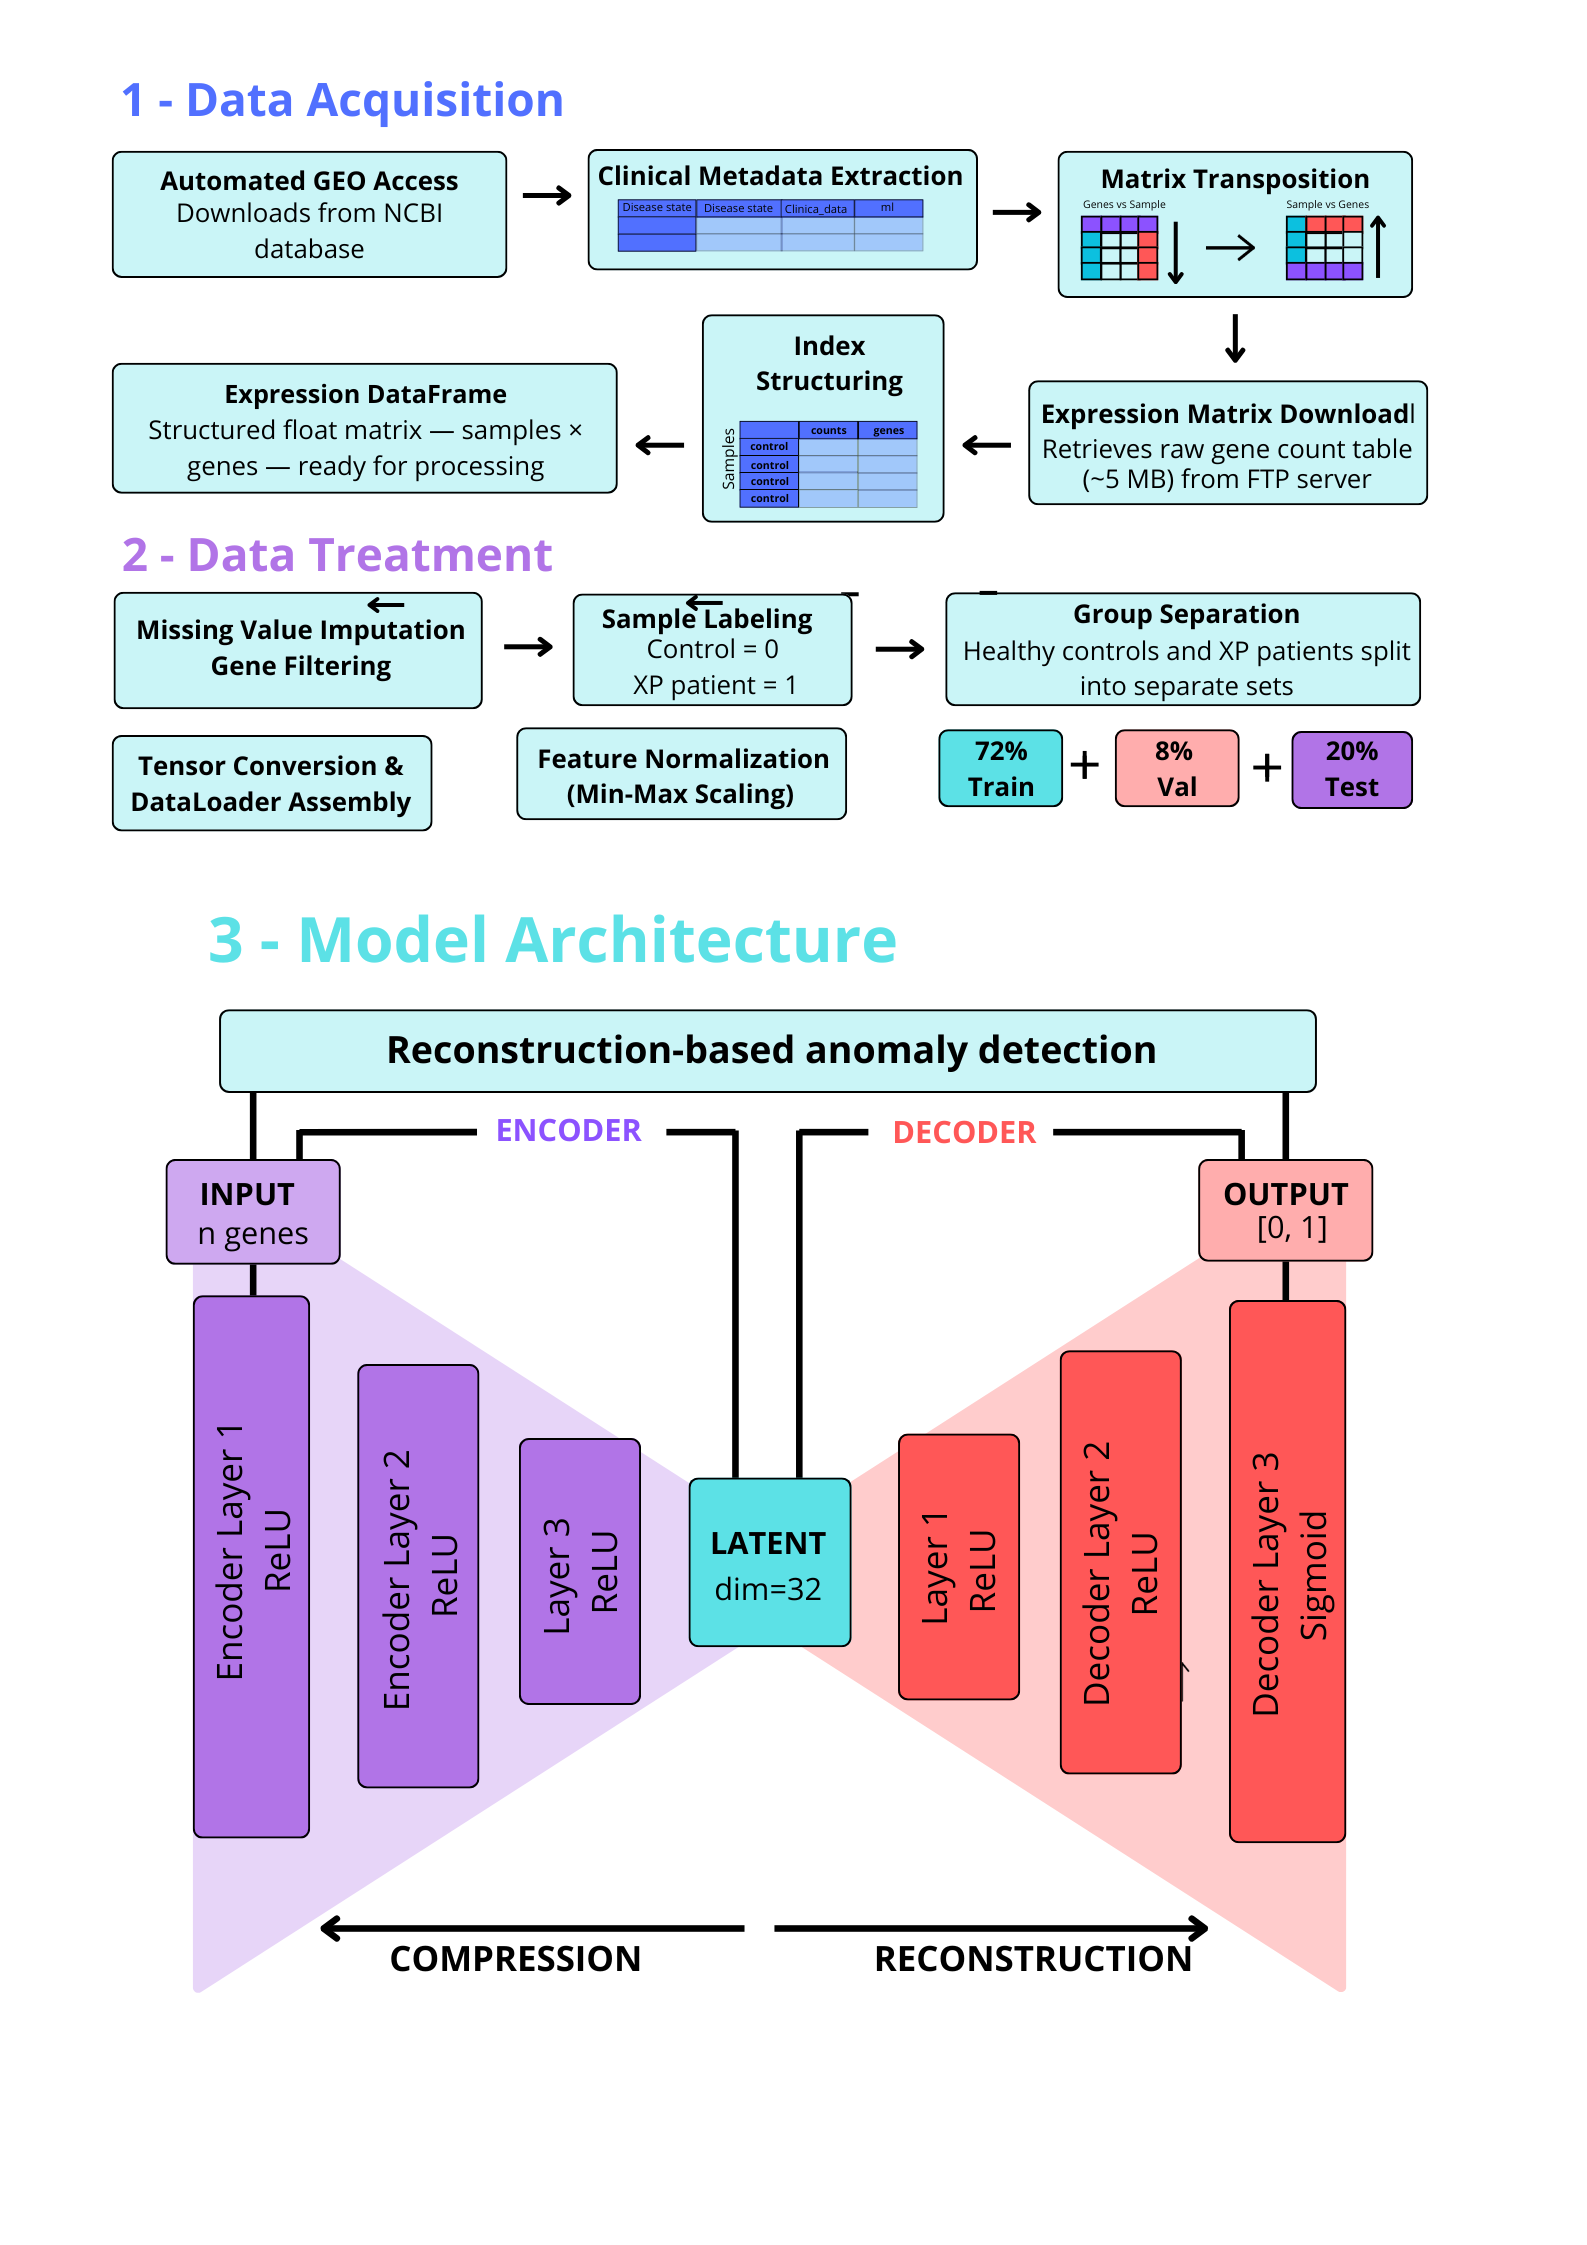
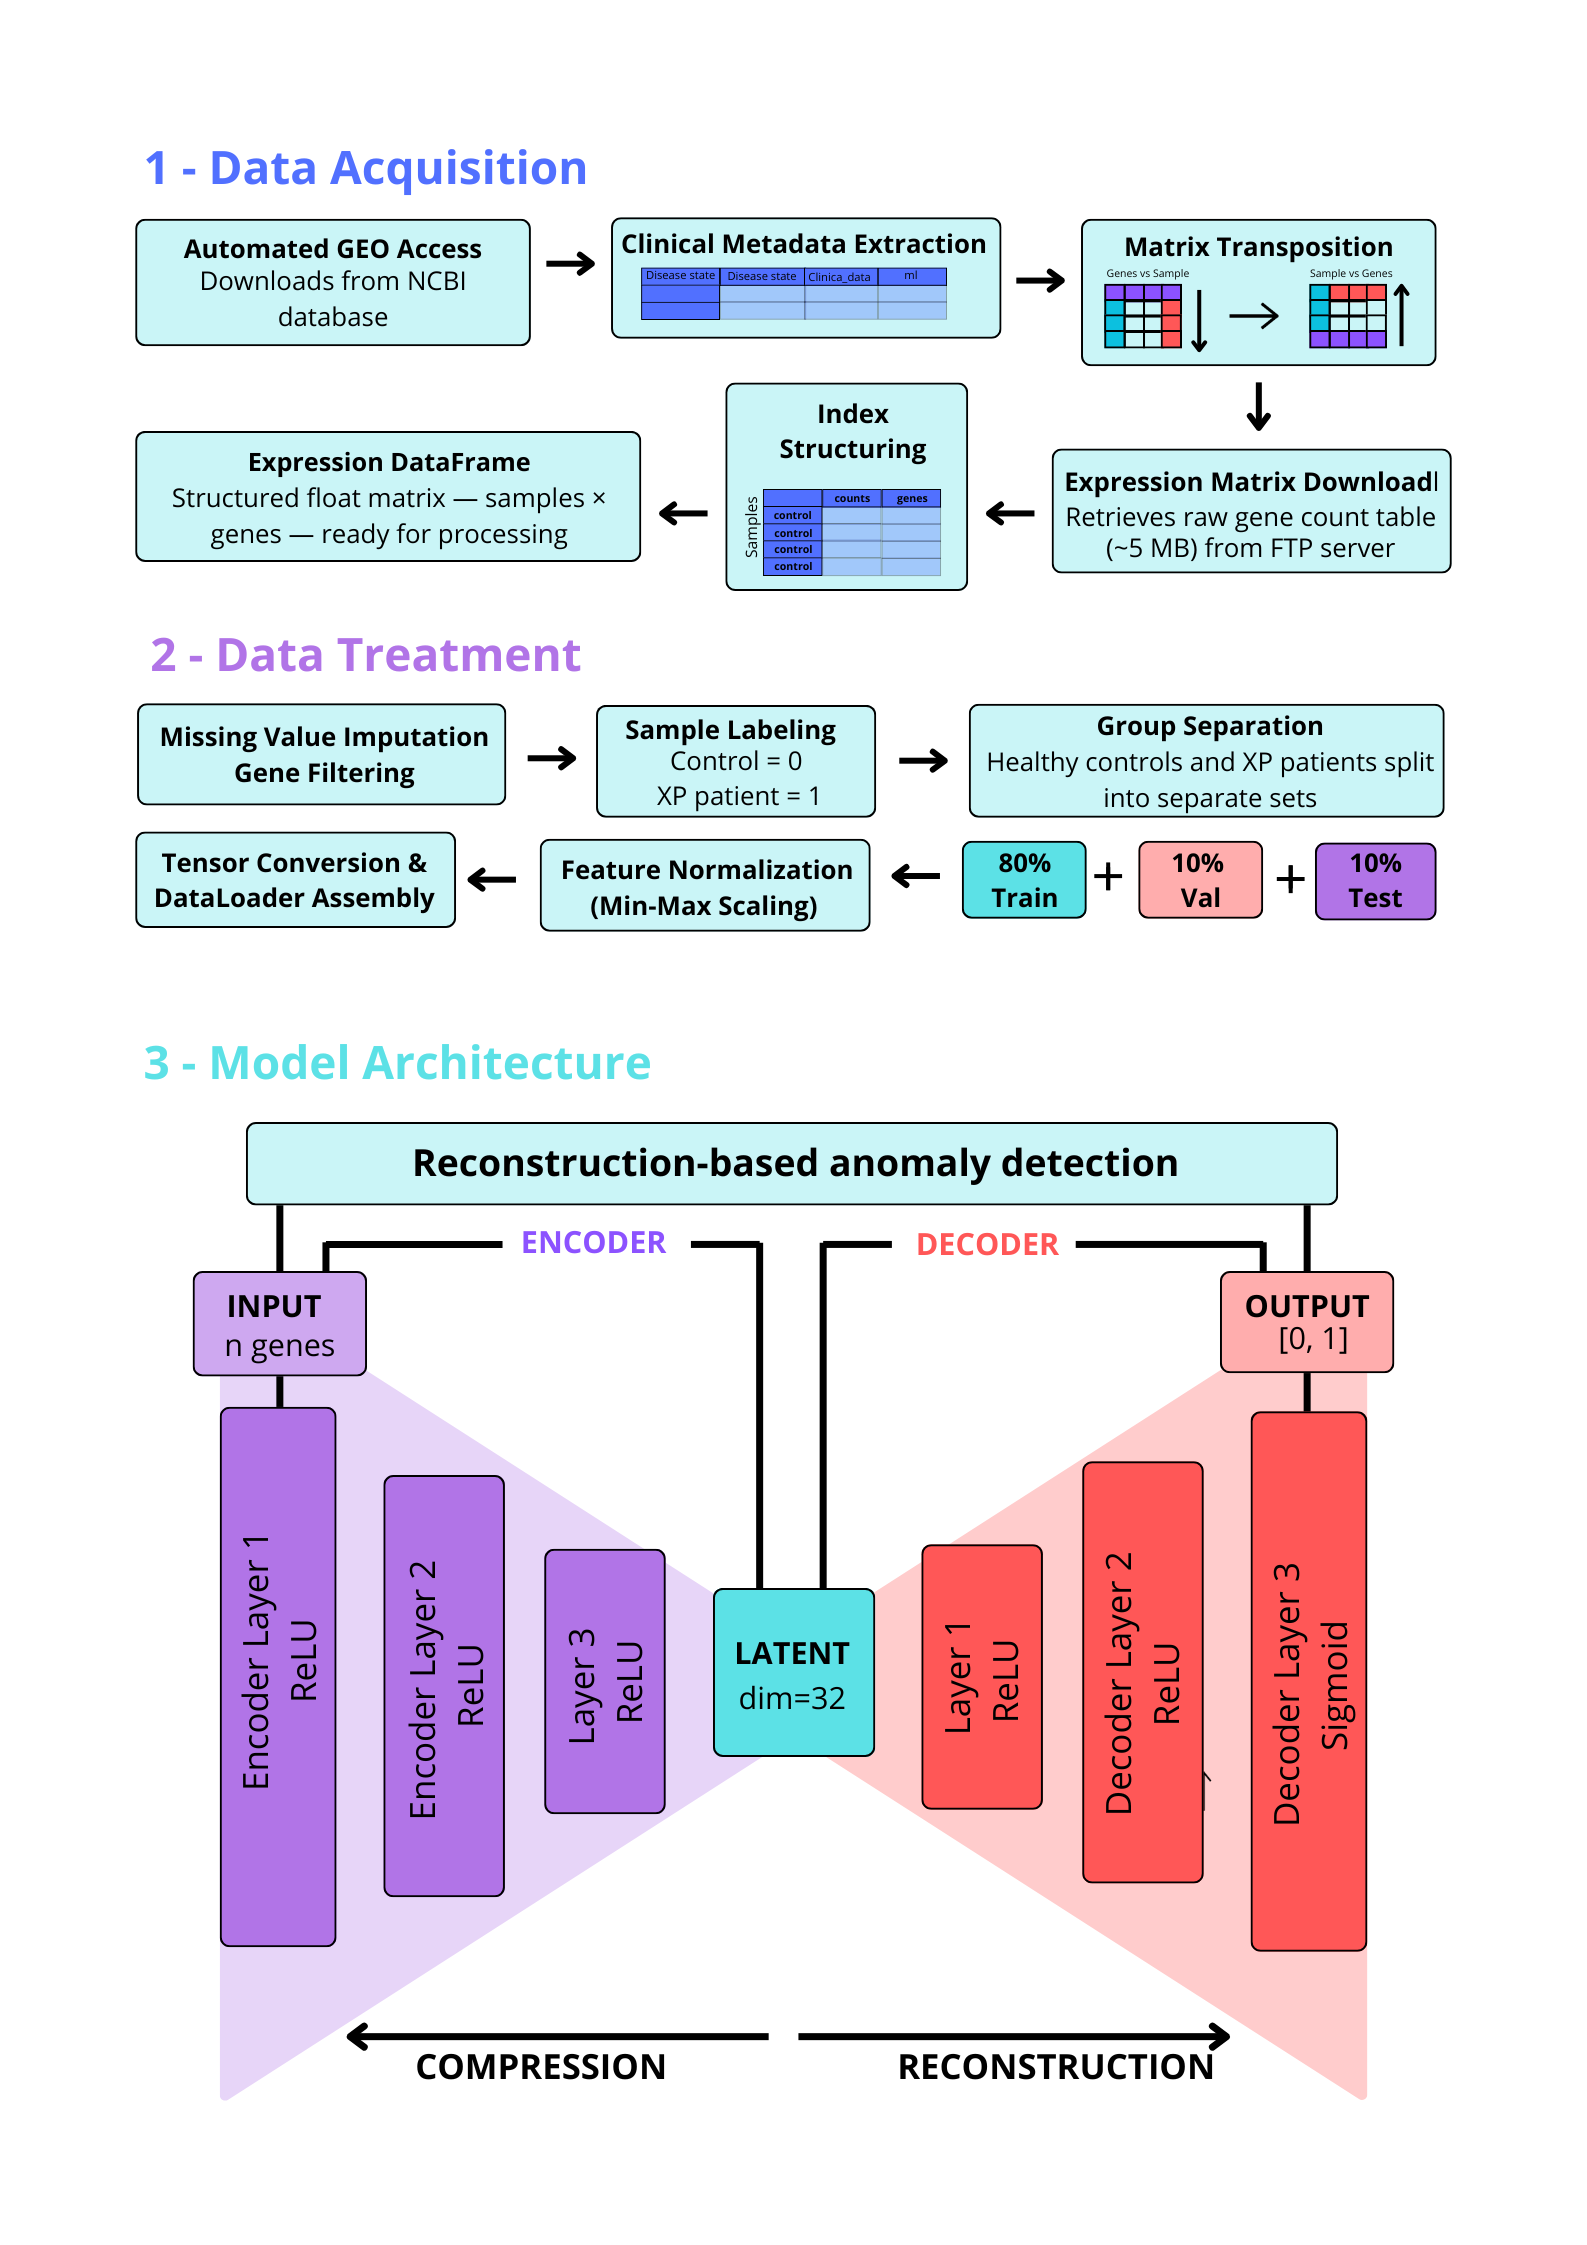
Atualização do layout e autores

diff --git a/Transcriptomic Signature of Xeroderma Pi index.html b/Transcriptomic Signature of Xeroderma Pi index.html
@@ -33,8 +33,10 @@
         header {
             background: linear-gradient(135deg, var(--primary), var(--secondary));
             color: white;
-            padding: 60px 20px;
+            padding: 20px 20px;
             text-align: center;
+
+            overflow: hidden;
         }
        
         header h1 {
@@ -48,10 +50,10 @@
         header::before {
             content: "";
             display: block;
-            width: 900px; /* Ajuste a largura da imagem aqui */
-            height: 900px; /* Ajuste a altura da imagem aqui */
-            margin: 0 auto 20px auto; /* Centraliza a imagem e empurra o título para baixo */
-            
+            width: 700px; /* Ajuste a largura da imagem aqui */
+            height: 700px; /* Ajuste a altura da imagem aqui */
+            margin: 0 auto -210px auto; /* Centraliza a imagem e empurra o título para baixo */
+            transform: translateY(-120px);
             /* CAMINHO DA IMAGEM: substitua pelo nome correto do seu arquivo */
             background-image: url('Poster imagem 1.png'); 
             
@@ -101,25 +103,32 @@
             text-align: center;
         }
 
+        .figure-container figure {
+            margin: 0 auto 28px;
+            max-width: 920px;
+        }
+
         .figure-container img {
             width: 100%;
             max-width: 900px;
             height: auto;
             border-radius: 10px;
             border: 1px solid var(--border);
-            margin-bottom: 12px;
+            margin-bottom: 10px;
         }
 
+        .figure-container figcaption,
         .caption {
             color: var(--gray);
             font-style: italic;
             font-size: 0.95rem;
+            margin-top: 0;
         }
 
         .citation-box {
             background: #f8fafc;
             border-left: 4px solid var(--secondary);
-            padding: 15px;
+            padding: 20px;
             margin-top: 10px;
         }
 
@@ -131,6 +140,46 @@
             margin-bottom: 10px;
         }
 
+        .authors-container {
+            display: flex;
+            gap: 18px;
+            flex-wrap: wrap;
+            justify-content: space-between;
+            margin-top: 20px;
+        }
+
+        .author-card {
+            flex: 1 1 calc(33.333% - 12px);
+            min-width: 240px;
+            background: #fcfdff;
+            border: 1px solid #e1e7ee;
+            border-radius: 14px;
+            padding: 20px;
+            text-align: center;
+            box-shadow: 0 2px 8px rgba(0,0,0,0.05);
+        }
+
+        .author-card img {
+            width: 100%;
+            max-width: 180px;
+            height: auto;
+            border-radius: 50%;
+            display: block;
+            margin: 0 auto 16px;
+            object-fit: cover;
+        }
+
+        .author-card h3 {
+            margin-bottom: 10px;
+            font-size: 1.05rem;
+            color: var(--text);
+        }
+
+        .author-card p {
+            margin: 0;
+            text-align: center;
+        }
+
         a {
             color: var(--secondary);
             text-decoration: none;
@@ -138,6 +187,11 @@
 
         a:hover {
             text-decoration: underline;
+        }
+
+        a:focus-visible {
+            outline: 2px dashed var(--secondary);
+            outline-offset: 3px;
         }
 
         footer {
@@ -151,6 +205,25 @@
         footer a {
             color: #ffffff;
             font-weight: 600;
+        }
+
+        .citation-box {
+            background: #f8fafc;
+            border-left: 4px solid var(--secondary);
+            padding: 20px;
+            margin-top: 10px;
+        }
+
+        .citation-box p {
+            margin-bottom: 18px;
+            text-align: justify;
+            line-height: 1.8;
+        }
+
+        .citation-box hr {
+            margin: 30px 0;
+            border: none;
+            border-top: 1px solid #d9dee5;
         }
 
         @media (max-width: 768px) {
@@ -177,7 +250,7 @@
 <main>
 
     <section>
-        <h2>Extended Abstract</h2>
+        <h2>EXTENDED ABSTRACT</h2>
 
         <h3>INTRODUCTION</h3>
         <p>
@@ -214,58 +287,149 @@
     </section>
 
     <section>
-        <h2>Figures</h2>
+        <h2>FIGURES</h2>
 
         <div class="figure-container">
-            <img src="3.png" alt="Autoencoder architecture">
-            <p class="caption">
-            </p>
+            <figure>
+                <img src="3.png" alt="Autoencoder architecture">
+                <figcaption>Source: Author, 2026.</figcaption>
+            </figure>
         </div>
         <div class="figure-container">
-            <img src="4.png" alt="Autoencoder architecture">
-            <p class="caption">
-            </p>
+            <figure>
+                <img src="4.png" alt="Autoencoder architecture">
+                <figcaption>Source: Author, 2026.</figcaption>
+            </figure>
         </div>
     </section>
 
     <section>
-        <h2>Suggested Citation</h2>
+    <h2>REFERENCES</h2>
 
-        <div class="citation-box">
-            <p><strong>ABNT:</strong> [A PREENCHER – citação ABNT]</p>
-            <p><strong>Vancouver:</strong> [A PREENCHER – citação Vancouver]</p>
-        </div>
-    </section>
+    <div class="citation-box">
+
+        <p><strong>ABNT:</strong></p>
+
+        <p>
+            CARDOSO, José Fernandes da Silva; MARTINS, Mariana Paiva Braga; FARIA, Ivan Aurélio Fortuna Kalil de; LOBO, Daniel Mendes Lira; FERREIRA, Tainan Gomes et al.
+            <em>Inteligência artificial no diagnóstico precoce de doenças crônicas: desafios e perspectivas.</em>
+            Revista Ibero-Americana de Humanidades, Ciências e Educação, v. 10, n. 12, p. 2451–2461, 2024.
+            DOI: 10.51891/rease.v10i12.17626.
+        </p>
+
+        <p>
+            OLIVEIRA, Ana Helena Sales.
+            <em>Os genes do xeroderma pigmentoso e a sensibilidade ao sol.</em>
+            Genética na Escola, v. 16, n. 1, p. 28–37, 2021.
+            DOI: 10.55838/1980-3540.ge.2021.366.
+        </p>
+
+        <p>
+            PASSOS, Matheus Jacobina Brito; BRITO, Vanessa Araújo Jacobina; ALMEIDA NETO, Alcides Duarte de.
+            <em>Xeroderma pigmentoso: uma patologia rara.</em>
+            Brazilian Journal of Implantology and Health Sciences, v. 6, n. 9, p. 2349–2353, 2024.
+            DOI: 10.36557/2674-8169.2024v6n9p2349-2353.
+        </p>
+
+        <p>
+            TAMA SÁNCHEZ, Francisco A.; VASQUEZ FALCONÍ, Joselyn A.; AGUILAR MEJÍA, Rommel M.; RODRÍGUEZ PÉREZ, Juan Carlos A.; LÓPEZ SOLÓRZANO, Anthony A.; PAREDES JERÉZ, Kevin D.
+            <em>Xeroderma pigmentoso: reporte de caso y revisión de la literatura.</em>
+            Revista Científica de Salud y Desarrollo Humano, v. 5, n. 2, p. 44–55, 2024.
+            DOI: 10.61368/r.s.d.h.v5i2.117.
+        </p>
+
+        <p>
+            ZGHAL, M.; MESSAOUD, O.; MOKNI, M.
+            <em>Xeroderma pigmentoso.</em>
+            EMC - Dermatología, v. 55, n. 2, p. 1–21, 2021.
+            DOI: 10.1016/S1761-2896(21)45140-X.
+        </p>
+
+        <hr>
+
+        <p><strong>Vancouver:</strong></p>
+
+        <p>
+            1. Cardoso JFS, Martins MPB, Faria IAFK, Lobo DML, Ferreira TG, et al.
+            Inteligência artificial no diagnóstico precoce de doenças crônicas: desafios e perspectivas.
+            Rev Ibero-Am Humanid Cienc Educ. 2024;10(12):2451–2461.
+            doi:10.51891/rease.v10i12.17626.
+        </p>
+
+        <p>
+            2. Oliveira AHS.
+            Os genes do xeroderma pigmentoso e a sensibilidade ao sol.
+            Genet Esc. 2021;16(1):28–37.
+            doi:10.55838/1980-3540.ge.2021.366.
+        </p>
+
+        <p>
+            3. Passos MJB, Brito VAJ, Almeida Neto AD.
+            Xeroderma pigmentoso: uma patologia rara.
+            Braz J Implantol Health Sci. 2024;6(9):2349–2353.
+            doi:10.36557/2674-8169.2024v6n9p2349-2353.
+        </p>
+
+        <p>
+            4. Tama Sánchez FA, Vasquez Falconí JA, Aguilar Mejía RM, Rodríguez Pérez JCA, López Solórzano AA, Paredes Jeréz KD.
+            Xeroderma pigmentoso: reporte de caso y revisión de la literatura.
+            Rev Cient Salud Desarro Humano. 2024;5(2):44–55.
+            doi:10.61368/r.s.d.h.v5i2.117.
+        </p>
+
+        <p>
+            5. Zghal M, Messaoud O, Mokni M.
+            Xeroderma pigmentoso.
+            EMC Dermatol. 2021;55(2):1–21.
+            doi:10.1016/S1761-2896(21)45140-X.
+        </p>
+
+    </div>
+</section>
 
     <section>
-        <h2>Authors and Contacts</h2>
+        <h2>AUTHORS AND CONTACTS</h2>
 
-        <ul>
-            <li>
-                <strong>Emilly Ynialide Rodrigues de Lima</strong> –
-                <a href="mailto:emilly.ynialide@gmail.com">emilly.ynialide@gmail.com</a>
-            </li>
+        <div class="authors-container">
 
-            <li>
-                <strong>Meryck Felipe Brito da Silva</strong> –
-                <a href="mailto:meryck.ef@discente.ufg.br">meryck@pucgoias.edu.br</a>
-            </li>
+            <div class="author-card">
+                <img src="Emilly.jpeg" alt="Emilly Ynialide Rodrigues de Lima">
+                <h3>Emilly Ynialide Rodrigues de Lima</h3>
+                <p>
+                    <a href="mailto:emilly.ynialide@gmail.com">
+                        emilly.ynialide@gmail.com
+                    </a>
+                </p>
+            </div>
 
-            <li>
-                <strong>Rafael Souto</strong> –
-                <a href="mailto:prof.rafaelsouto@gmail.com">prof.rafaelsouto@gmail.com</a>
-            </li>
-        </ul>
+            <div class="author-card">
+                <img src="Emilly.jpeg" alt="Meryck Felipe Brito da Silva">
+                <h3>Meryck Felipe Brito da Silva</h3>
+                <p>
+                    <a href="mailto:meryck@pucgoias.edu.br">
+                        meryck@pucgoias.edu.br
+                    </a>
+                </p>
+            </div>
+
+            <div class="author-card">
+                <img src="Emilly.jpeg" alt="Rafael Souto">
+                <h3>Rafael Souto</h3>
+                <p>
+                    <a href="mailto:prof.rafaelsouto@gmail.com">
+                        prof.rafaelsouto@gmail.com
+                    </a>
+                </p>
+            </div>
+
+        </div>
     </section>
 
 </main>
 
 <footer>
     <p>
-        <strong>INCT PDHN – Funbios</strong><br>
-        <a href="https://inct-pdhn-funbios.github.io/" target="_blank">
-            https://inct-pdhn-funbios.github.io/
-        </a>
+        <strong>GenIA – PUC-GO</strong><br>
     </p>
 </footer>
 
